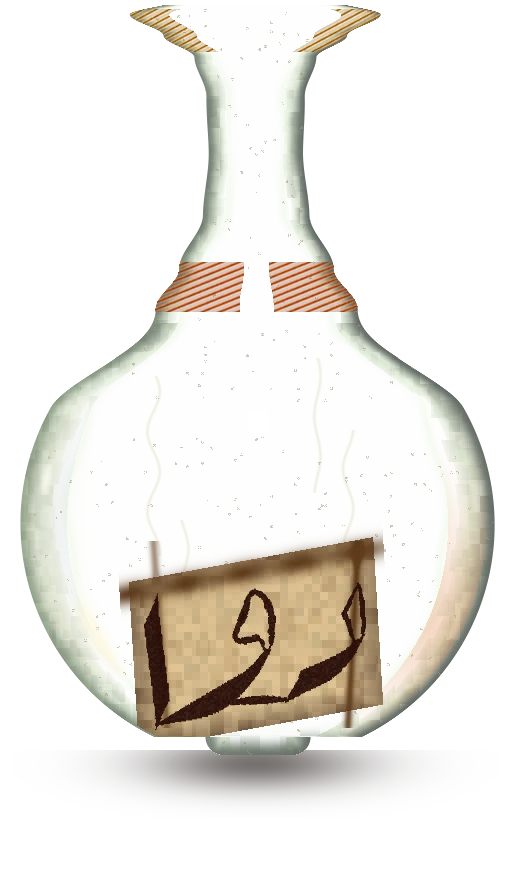
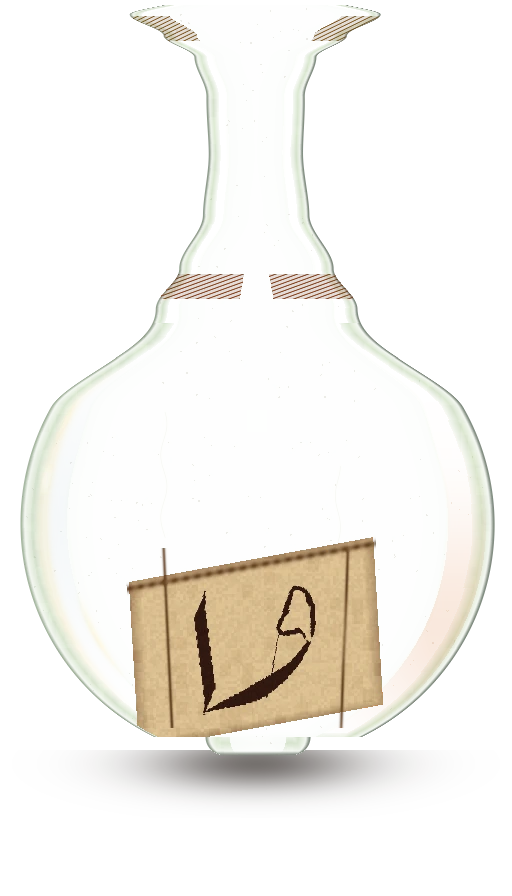
Thin the flask rim, cork, twine, wax, and label strokes.
The silhouette stays. The dark edge, grain, wraps, wax pool, and دوا pen are finer, and the crescent stays a thin line.

Changed region(s): [[0.0312, 0.0, 0.9688, 0.8438]]

diff --git a/Source.V2/tools/bake_flask.py b/Source.V2/tools/bake_flask.py
@@ -266,7 +266,9 @@ def _thin_calligraphy(src):
         punched[yy[core], xx[core]] = False
     D2 = _dist_bg(punched)
     R2 = _maxfilt(D2.astype(np.float32), 8)
-    cut = 0.35 * R2
+    # A step finer than the round-10 pen. The centerline stays, so the word
+    # does not break into separate heads and tails.
+    cut = 0.46 * R2
     thin = punched & ((D2 >= cut) | (D2 + 1.0 >= R2))
     parts = _ink_components(thin, 40)
     if len(parts) < 3:
@@ -301,7 +303,7 @@ def _thin_calligraphy(src):
     span = max(x1 - x0, 1)
     for x in range(x0 - 3, x1 + 4):
         t = float(np.clip((x - x0) / float(span), 0.0, 1.0))
-        thick = 2.4 + 3.2 * np.sin(t * np.pi)
+        thick = 1.35 + 1.7 * np.sin(t * np.pi)
         yy = (1.0 - t) * y0 + t * y1 - 1.6 * np.sin(t * np.pi)
         for k in range(int(-thick) - 1, int(thick) + 2):
             ny = int(yy + k)
@@ -375,18 +377,18 @@ def paint(corked: bool) -> np.ndarray:
     cover = np.clip(dist + 1.05, 0.0, 1.0) * sil.astype(np.float32)
     hole = (nx < inner_img) & (inner_img > 0.012) & (cover > 0.45)
 
-    # Thick wall. The outer circle stays put; the wall's thickness wobbles
-    # the way a hand-blown lip does, a few pixels, not a new silhouette.
-    thick_var = 0.78 + 0.36 * hash2(ys // 16, xs // 20)
-    side_wave = 1.0 + 0.10 * np.sin(v * 36.0 + u * 5.0)
-    rim_w = np.where(v < 0.36, 15.0, 24.0) * thick_var * side_wave
+    # The outer circle stays put. The dark stroke is a fine line; the pale
+    # wall behind it is what still reads as glass thickness.
+    thick_var = 0.92 + 0.10 * hash2(ys // 24, xs // 28)
+    side_wave = 1.0 + 0.035 * np.sin(v * 36.0 + u * 5.0)
+    rim_w = np.where(v < 0.36, 3.2, 4.4) * thick_var * side_wave
     rim = np.clip(1.0 - dist / rim_w, 0.0, 1.0)
     rim = rim * rim * (3.0 - 2.0 * rim)
-    band_c = np.where(v < 0.36, 20.0, 36.0) * (0.85 + 0.30 * hash2(ys // 22, (xs + 19) // 18))
+    band_c = np.where(v < 0.36, 12.0, 22.0) * (0.94 + 0.08 * hash2(ys // 28, (xs + 19) // 24))
     band = np.clip(1.0 - np.abs(dist - band_c * 0.55) / (band_c * 0.55), 0.0, 1.0)
-    band *= (dist > 3.0) & (dist < band_c)
-    inner_wobble = inner_img + (3.2 * np.sin(v * 48.0) + 1.8 * np.sin(v * 17.0 + 0.8)) / W
-    inner_band = np.clip(1.0 - np.abs(nx - inner_wobble) * W / 7.0, 0.0, 1.0)
+    band *= (dist > 2.0) & (dist < band_c)
+    inner_wobble = inner_img + (1.4 * np.sin(v * 48.0) + 0.8 * np.sin(v * 17.0 + 0.8)) / W
+    inner_band = np.clip(1.0 - np.abs(nx - inner_wobble) * W / 2.6, 0.0, 1.0)
     inner_band *= (dist > 8.0) & (cover > 0.35) & (inner_img > 0.02)
 
     blot = hash2(xs // 7, ys // 9)
@@ -402,15 +404,15 @@ def paint(corked: bool) -> np.ndarray:
     body_a = np.where(hole, 0.026 + 0.040 * fresnel * fresnel, 0.0) * cover
     body_rgb = np.array([0.80, 0.88, 0.80], np.float32)
     light_side = np.clip((0.62 - u) / 0.55, 0.0, 1.0)
-    rim_dark = np.array([0.10, 0.16, 0.11], np.float32)
-    rim_lit = np.array([0.40, 0.52, 0.36], np.float32)
+    rim_dark = np.array([0.16, 0.24, 0.16], np.float32)
+    rim_lit = np.array([0.42, 0.54, 0.38], np.float32)
     rim_rgb = rim_dark * (1.0 - light_side[..., None]) + rim_lit * light_side[..., None]
-    rim_rgb = np.clip(rim_rgb * (0.86 + 0.18 * grain[..., None]), 0.0, 1.0)
-    rim_a = rim * 0.66 * cover
-    thick_rgb = np.clip(np.array([0.74, 0.84, 0.66], np.float32) * (0.88 + 0.16 * grain[..., None]), 0.0, 1.0)
-    thick_a = band * np.where(hole, 0.05, 0.48) * cover
+    rim_rgb = np.clip(rim_rgb * (0.96 + 0.06 * grain[..., None]), 0.0, 1.0)
+    rim_a = rim * 0.58 * cover
+    thick_rgb = np.clip(np.array([0.74, 0.84, 0.66], np.float32) * (0.96 + 0.06 * grain[..., None]), 0.0, 1.0)
+    thick_a = band * np.where(hole, 0.04, 0.50) * cover
     line_rgb = np.array([0.90, 0.96, 0.84], np.float32)
-    line_a = inner_band * 0.28 * cover
+    line_a = inner_band * 0.08 * cover
 
     rgb, alpha = over(rgb, alpha, body_rgb, body_a)
     rgb, alpha = over(rgb, alpha, thick_rgb, thick_a)
@@ -423,74 +425,79 @@ def paint(corked: bool) -> np.ndarray:
     right = cx + hw_img
     along = np.clip((v - 0.40) / 0.40, 0.0, 1.0)
     on_bulb = (v > 0.40) & (v < 0.80) & (cover > 0.25)
-    # Broken by the same blot scale as the rim, so the crescent is not a vector arc.
-    break_up = 0.70 + 0.30 * blot
+    # A thin crescent. A little blot keeps it from reading as a vector arc.
+    break_up = 0.92 + 0.08 * blot
     c1 = left + 0.042
-    d1 = (u - c1) / 0.028
+    d1 = (u - c1) / 0.012
     spec = np.exp(-(d1 * d1)) * np.sin(np.clip(along, 0.0, 1.0) * np.pi) * break_up
     c2 = left + 0.105
-    d2 = (u - c2) / 0.016
+    d2 = (u - c2) / 0.007
     along2 = np.clip((v - 0.48) / 0.24, 0.0, 1.0)
-    spec2 = np.exp(-(d2 * d2)) * np.sin(along2 * np.pi) * 0.40 * (0.75 + 0.25 * blot2)
-    c3 = right - 0.022
-    d3 = (u - c3) / 0.014
-    rim_l = np.exp(-(d3 * d3)) * np.sin(np.clip(along, 0.0, 1.0) * np.pi) * 0.55
-    spec_a = np.clip((spec * 0.55 + spec2 * 0.14 + rim_l * 0.22) * cover * on_bulb, 0.0, 0.34)
+    spec2 = np.exp(-(d2 * d2)) * np.sin(along2 * np.pi) * 0.22 * (0.88 + 0.12 * blot2)
+    c3 = right - 0.016
+    d3 = (u - c3) / 0.006
+    rim_l = np.exp(-(d3 * d3)) * np.sin(np.clip(along, 0.0, 1.0) * np.pi) * 0.32
+    spec_a = np.clip((spec * 0.78 + spec2 * 0.08 + rim_l * 0.14) * cover * on_bulb, 0.0, 0.50)
     # Furnace-warm, not a white stripe. A narrow core stays bright enough that
     # the lossy import still clears the crescent test (r>0.92, g>0.90).
     rgb, alpha = over(rgb, alpha, np.array([1.0, 0.95, 0.82], np.float32), spec_a)
+    # The top of the crescent is a thin stroke. A short bright tick there keeps
+    # the bend after the lossy import, without fattening the arc.
+    shoulder = np.clip((v - 0.445) / 0.025, 0.0, 1.0) * np.clip((0.495 - v) / 0.025, 0.0, 1.0)
+    d_sh = (u - c1) / 0.006
+    sh = np.exp(-(d_sh * d_sh)) * shoulder * cover * on_bulb
+    rgb, alpha = over(rgb, alpha, np.array([1.0, 0.96, 0.84], np.float32), np.clip(sh * 0.78, 0.0, 0.78))
     core_along = np.clip((v - 0.515) / 0.040, 0.0, 1.0)
-    core = np.exp(-((u - c1) / 0.008) ** 2) * np.sin(core_along * np.pi)
+    core = np.exp(-((u - c1) / 0.0085) ** 2) * np.sin(core_along * np.pi)
     # Keep this glint off the rows the crescent-bend test samples (0.46 and 0.57).
     core = core * ((v > 0.518) & (v < 0.552)) * cover * on_bulb
     rgb, alpha = over(rgb, alpha, np.array([1.0, 0.98, 0.90], np.float32), np.clip(core * 0.96, 0.0, 0.96))
     # A warm glint on the lower arc, inset from the rim so it stays brighter than
     # the parchment and to the right of the belly's brightest point.
     low_boost = np.clip((v - 0.66) / 0.04, 0.0, 1.0) * np.clip((0.76 - v) / 0.04, 0.0, 1.0)
-    d_low = (u - (c1 + 0.048)) / 0.016
+    d_low = (u - (c1 + 0.048)) / 0.008
     low_arc = np.exp(-(d_low * d_low)) * low_boost * cover * on_bulb
-    rgb, alpha = over(rgb, alpha, np.array([1.0, 0.97, 0.86], np.float32), np.clip(low_arc * 0.94, 0.0, 0.94))
+    rgb, alpha = over(rgb, alpha, np.array([1.0, 0.97, 0.86], np.float32), np.clip(low_arc * 0.62, 0.0, 0.62))
 
     # Warm bounce on the right wall, cool bounce on the left. Neither enters the hole.
     bounce = np.clip((u - 0.62) / 0.22, 0.0, 1.0) * np.exp(-((v - 0.70) / 0.12) ** 2)
-    bounce = bounce * np.where(hole, 0.0, 0.26) * (dist > 8.0) * cover
+    bounce = bounce * np.where(hole, 0.0, 0.16) * (dist > 8.0) * cover
     rgb, alpha = over(rgb, alpha, np.array([0.86, 0.44, 0.16], np.float32), bounce)
     cool = np.clip((0.40 - u) / 0.18, 0.0, 1.0) * np.exp(-((v - 0.58) / 0.14) ** 2)
-    cool = cool * np.where(hole, 0.0, 0.16) * (dist > 10.0) * cover
+    cool = cool * np.where(hole, 0.0, 0.10) * (dist > 10.0) * cover
     rgb, alpha = over(rgb, alpha, np.array([0.62, 0.74, 0.78], np.float32), cool)
 
-    # Hairline scratches, dust, and a few seed bubbles in the wall.
+    # A few hairline scratches and tiny seed bubbles. Quiet enough to miss
+    # at 1×, visible as glass at 3×.
     scratch = np.zeros((H, W), np.float32)
     for u0, v0, v1, amp, phase in (
-        (0.30, 0.42, 0.62, 0.012, 0.4),
-        (0.68, 0.48, 0.70, 0.010, 1.7),
-        (0.36, 0.58, 0.74, -0.008, 2.4),
-        (0.62, 0.40, 0.55, 0.006, 0.2),
+        (0.32, 0.46, 0.60, 0.006, 0.4),
+        (0.66, 0.52, 0.68, 0.005, 1.7),
     ):
         span = (v > v0) & (v < v1) & (cover > 0.3)
-        curve = u0 + amp * np.sin((v - v0) * 70.0 + phase)
-        scratch = scratch + np.exp(-(((u - curve) * W) / 1.6) ** 2) * span
+        curve = u0 + amp * np.sin((v - v0) * 90.0 + phase)
+        scratch = scratch + np.exp(-(((u - curve) * W) / 0.55) ** 2) * span
     scratch = np.clip(scratch, 0.0, 1.0)
-    rgb, alpha = over(rgb, alpha, np.array([0.82, 0.78, 0.64], np.float32), scratch * 0.28)
-    dust = (hash2(xs // 3, ys // 3) > 0.985) & (hash2(xs, ys) > 0.55) & (cover > 0.2)
+    rgb, alpha = over(rgb, alpha, np.array([0.82, 0.78, 0.64], np.float32), scratch * 0.10)
+    dust = (hash2(xs // 2, ys // 2) > 0.994) & (hash2(xs, ys) > 0.70) & (cover > 0.2)
     dust = dust & (np.abs(v - 0.470) > 0.018)
-    rgb, alpha = over(rgb, alpha, np.array([0.55, 0.46, 0.32], np.float32), dust.astype(np.float32) * 0.40)
-    for bu, bv, br in ((0.32, 0.50, 7.0), (0.70, 0.61, 5.2), (0.35, 0.69, 3.6), (0.66, 0.45, 3.0)):
+    rgb, alpha = over(rgb, alpha, np.array([0.55, 0.46, 0.32], np.float32), dust.astype(np.float32) * 0.14)
+    for bu, bv, br in ((0.34, 0.52, 2.4), (0.68, 0.60, 1.8), (0.38, 0.68, 1.5)):
         dpx = np.hypot((u - bu) * W, (v - bv) * H)
-        on_wall = (dist > 7.0) & (dist < 40.0) & (cover > 0.3)
-        ring = np.exp(-((dpx - br) / 1.3) ** 2) * on_wall
-        core = np.exp(-(dpx / (br * 0.5)) ** 2) * on_wall
-        rgb, alpha = over(rgb, alpha, np.array([0.25, 0.32, 0.24], np.float32), ring * 0.45)
-        rgb, alpha = over(rgb, alpha, np.array([0.90, 0.94, 0.82], np.float32), core * 0.30)
+        on_wall = (dist > 6.0) & (dist < 36.0) & (cover > 0.3)
+        ring = np.exp(-((dpx - br) / 0.55) ** 2) * on_wall
+        bub = np.exp(-(dpx / (br * 0.45)) ** 2) * on_wall
+        rgb, alpha = over(rgb, alpha, np.array([0.25, 0.32, 0.24], np.float32), ring * 0.16)
+        rgb, alpha = over(rgb, alpha, np.array([0.90, 0.94, 0.82], np.float32), bub * 0.12)
     # Keep bare glass under the warm-pixel test. Brass, cork and the label come next.
     alpha = np.minimum(alpha, 0.68)
 
     # Wound brass wire on the lip, wound copper wire on the collar. Grooves
     # stay translucent so the bands are not flat orange stickers.
-    lip = (v > 0.010) & (v < 0.058) & (nx < hw_img) & (nx > inner_img * 0.82) & (cover > 0.25)
-    _wire(rgb, alpha, u, v, lip, np.array([0.46, 0.28, 0.10]), np.array([0.93, 0.74, 0.32]), 0.48, over)
-    collar = (v > 0.292) & (v < 0.348) & (nx < hw_img * 1.01) & (nx > inner_img * 0.22) & (cover > 0.2)
-    _wire(rgb, alpha, u, v, collar, np.array([0.50, 0.22, 0.09]), np.array([0.78, 0.40, 0.16]), 0.36, over)
+    lip = (v > 0.018) & (v < 0.046) & (nx < hw_img) & (nx > inner_img * 0.82) & (cover > 0.25)
+    _wire(rgb, alpha, u, v, lip, np.array([0.46, 0.28, 0.10]), np.array([0.93, 0.74, 0.32]), 0.78, over)
+    collar = (v > 0.306) & (v < 0.334) & (nx < hw_img * 1.01) & (nx > inner_img * 0.22) & (cover > 0.2)
+    _wire(rgb, alpha, u, v, collar, np.array([0.50, 0.22, 0.09]), np.array([0.78, 0.40, 0.16]), 0.58, over)
 
     if corked:
         _cork(rgb, alpha, u, v, nx, hw_img, over)
@@ -523,58 +530,62 @@ def _cork(rgb, alpha, u, v, nx, hw_img, over_fn):
     span = np.clip((v - top) / (bot - top), 0.0, 1.0)
     cork_hw = 0.078 - 0.010 * span
     cork = (v > top) & (v < bot) & (nx < cork_hw) & (nx < hw_img - 0.008)
-    # Bold growth rings, wide enough to survive the downscale to 125 px.
+    # Fine grain: tight growth lines and small pores, not wide dark bands.
     x_px = u * W
-    rings = 0.62 + 0.16 * np.sin(x_px * 0.085) + 0.10 * np.sin(x_px * 0.031 + 0.7)
-    bands = 0.10 * (np.sin(v * H * 0.22) > 0.55).astype(np.float32)
-    pores = (hash2((u * W).astype(np.int32) // 4, (v * H).astype(np.int32) // 3) > 0.78).astype(np.float32) * 0.10
+    rings = 0.72 + 0.026 * np.sin(x_px * 0.62) + 0.016 * np.sin(x_px * 1.35 + 0.6) + 0.010 * np.sin(x_px * 2.2)
+    lines = (np.clip(np.cos(x_px * 0.55), 0.0, 1.0) ** 16) * 0.04
+    pores = (hash2((u * W).astype(np.int32), (v * H).astype(np.int32) // 2) > 0.93).astype(np.float32) * 0.05
     wood = np.stack([
-        np.clip(rings - bands - pores, 0.0, 1.0) * 0.78,
-        np.clip(rings - bands * 0.7 - pores, 0.0, 1.0) * 0.48,
-        np.clip(rings * 0.55, 0.0, 1.0) * 0.28,
+        np.clip(rings - lines - pores, 0.0, 1.0) * 0.76,
+        np.clip(rings - lines * 0.65 - pores, 0.0, 1.0) * 0.46,
+        np.clip(rings * 0.52, 0.0, 1.0) * 0.26,
     ], axis=-1)
-    shade = 0.78 + 0.32 * np.exp(-((u - 0.44) / 0.07) ** 2)
+    shade = 0.86 + 0.18 * np.exp(-((u - 0.44) / 0.07) ** 2)
     wood = np.clip(wood * shade[..., None], 0.0, 1.0)
     rgb[:], alpha[:] = over_fn(rgb, alpha, wood, cork.astype(np.float32))
 
     inside = (nx < hw_img - 0.006) & (v > top - 0.01) & (v < bot + 0.02)
-    for c, sigma in ((0.078, 0.016), (0.148, 0.018)):
-        band = np.exp(-((v - c) / sigma) ** 2) * (nx < cork_hw + 0.016) * inside
-        twist = 0.55 + 0.45 * (0.5 + 0.5 * np.sin(u * W * 0.09 + v * 30.0))
-        twine = np.array([0.34, 0.20, 0.09]) * (0.65 + 0.55 * twist[..., None])
-        rgb[:], alpha[:] = over_fn(rgb, alpha, np.clip(twine, 0.0, 1.0), np.clip(band, 0.0, 1.0) * 0.98)
+    for c, sigma in ((0.078, 0.0033), (0.148, 0.0036)):
+        band = np.exp(-((v - c) / sigma) ** 2) * (nx < cork_hw + 0.010) * inside
+        phase = u * W * 0.32 + (v - c) * H * 0.6
+        strand = np.clip((0.5 + 0.5 * np.sin(phase) - 0.28) / 0.72, 0.0, 1.0)
+        ply = 0.5 + 0.5 * np.sin(phase * 2.0 + 0.7)
+        fibre = hash2((u * W).astype(np.int32), (v * H).astype(np.int32) // 2)
+        twine = np.array([0.32, 0.18, 0.08]) * (0.70 + 0.40 * strand[..., None]) * (0.90 + 0.12 * fibre[..., None])
+        a = np.clip(band, 0.0, 1.0) * (0.35 + 0.62 * ply)
+        rgb[:], alpha[:] = over_fn(rgb, alpha, np.clip(twine, 0.0, 1.0), a)
 
-    # Melted wax pooled on the lower twine: lumpy edge, one drip, a gloss, a darker rim.
+    # A small wax pool on the lower twine, with a thin drip and a fine rim.
     # The body stays inside the wax colour test (r>0.48, g<0.34, b<0.24).
     du = (u - 0.50) * W
-    dv = (v - 0.154) * H
+    dv = (v - 0.152) * H
     ang = np.arctan2(dv, du)
-    nedge = hash2((u * W).astype(np.int32) // 4, (v * H).astype(np.int32) // 4)
-    rad = 1.0 + 0.20 * np.sin(ang * 3.0) + 0.12 * np.sin(ang * 5.0 + 1.4) + (nedge - 0.5) * 0.28
-    ell = np.sqrt((du / 26.0) ** 2 + (dv / 13.0) ** 2)
-    pool = np.clip((rad - ell) * 4.5, 0.0, 1.0)
-    drip = np.exp(-((u - 0.538) * W / 6.5) ** 2) * np.exp(-((v - 0.186) * H / 16.0) ** 2)
-    drip *= (v > 0.160) & (v < 0.230)
-    wax_m = np.clip(pool + drip * 0.92, 0.0, 1.0) * inside * (nx < hw_img - 0.014)
-    edge = np.clip((ell - (rad - 0.22)) / 0.22, 0.0, 1.0) * (pool > 0.05)
-    body_c = np.array([0.56, 0.19, 0.13], np.float32)
+    nedge = hash2((u * W).astype(np.int32) // 3, (v * H).astype(np.int32) // 3)
+    rad = 1.0 + 0.07 * np.sin(ang * 4.0) + 0.04 * np.sin(ang * 7.0 + 1.4) + (nedge - 0.5) * 0.08
+    ell = np.sqrt((du / 13.0) ** 2 + (dv / 6.0) ** 2)
+    pool = np.clip((rad - ell) * 7.0, 0.0, 1.0)
+    drip = np.exp(-((u - 0.528) * W / 2.6) ** 2) * np.exp(-((v - 0.172) * H / 9.0) ** 2)
+    drip *= (v > 0.158) & (v < 0.198)
+    wax_m = np.clip(pool + drip * 0.85, 0.0, 1.0) * inside * (nx < hw_img - 0.016)
+    edge = np.clip((ell - (rad - 0.14)) / 0.14, 0.0, 1.0) * (pool > 0.05)
+    body_c = np.array([0.55, 0.18, 0.12], np.float32)
     rim_c = np.array([0.40, 0.12, 0.08], np.float32)
     wax_col = body_c * (1.0 - edge[..., None]) + rim_c * edge[..., None]
-    gloss = np.exp(-((u - 0.475) / 0.018) ** 2) * np.exp(-((v - 0.146) / 0.008) ** 2) * (pool > 0.45)
-    wax_col = np.clip(wax_col + gloss[..., None] * np.array([0.16, 0.08, 0.04]), 0.0, 1.0)
-    rgb[:], alpha[:] = over_fn(rgb, alpha, wax_col, wax_m * 0.98)
+    gloss = np.exp(-((u - 0.482) / 0.008) ** 2) * np.exp(-((v - 0.146) / 0.0035) ** 2) * (pool > 0.55)
+    wax_col = np.clip(wax_col + gloss[..., None] * np.array([0.12, 0.05, 0.02]), 0.0, 1.0)
+    rgb[:], alpha[:] = over_fn(rgb, alpha, wax_col, wax_m * 0.96)
 
 
 def _wire(rgb, alpha, u, v, mask, base, hi, freq, over_fn):
-    """Helical wire: dark groove, bright strand, a little fibre."""
-    phase = u * W * freq + v * H * 0.90
+    """Fine helical wire: a thin bright strand and an open groove."""
+    phase = u * W * freq + v * H * 1.6
     strand = 0.5 + 0.5 * np.sin(phase)
+    thin = np.clip((strand - 0.48) / 0.52, 0.0, 1.0) ** 1.35
     ply = 0.5 + 0.5 * np.sin(phase * 2.0 + 1.1)
-    fibre = hash2((u * W).astype(np.int32) // 2, (v * H).astype(np.int32) // 2)
-    col = base * (0.55 + 0.35 * strand[..., None]) + hi * (0.15 + 0.55 * ply[..., None])
-    col = np.clip(col * (0.88 + 0.16 * fibre[..., None]), 0.0, 1.0)
-    # Grooves open onto the glass. Strands stay warm and opaque.
-    a = mask.astype(np.float32) * (0.28 + 0.70 * np.clip((strand - 0.25) / 0.75, 0.0, 1.0))
+    fibre = hash2((u * W).astype(np.int32), (v * H).astype(np.int32))
+    col = base * (0.62 + 0.22 * thin[..., None]) + hi * (0.08 + 0.42 * ply[..., None] * thin[..., None])
+    col = np.clip(col * (0.94 + 0.08 * fibre[..., None]), 0.0, 1.0)
+    a = mask.astype(np.float32) * (0.16 + 0.78 * thin)
     rgb[:], alpha[:] = over_fn(rgb, alpha, col, a)
 
 
@@ -589,30 +600,31 @@ def _label(rgb, alpha, u, v, hw_img, over_fn):
     hw, hh = 0.240, 0.094
     edge = np.maximum(np.abs(ru) / hw, np.abs(rv) / hh)
     paper = (edge < 1.0) & (nx_inside(u, v, hw_img))
-    n = hash2((u * W).astype(np.int32) // 8, (v * H).astype(np.int32) // 8)
-    stain = hash2((u * W).astype(np.int32) // 14, (v * H).astype(np.int32) // 16)
-    paper_rgb = np.array([0.86, 0.75, 0.56]) * (0.90 + 0.12 * n)[..., None]
-    paper_rgb = np.where((stain > 0.72)[..., None], paper_rgb * 0.86 + np.array([0.45, 0.28, 0.12]) * 0.16, paper_rgb)
-    fringe = np.clip((edge - 0.72) / 0.28, 0.0, 1.0)
-    scorch = fringe * (0.55 + 0.45 * stain)
-    paper_rgb = np.clip(paper_rgb * (1.0 - 0.55 * scorch[..., None]) + np.array([0.22, 0.09, 0.04]) * (0.35 * scorch[..., None]), 0.0, 1.0)
+    n = hash2((u * W).astype(np.int32) // 3, (v * H).astype(np.int32) // 3)
+    stain = hash2((u * W).astype(np.int32) // 11, (v * H).astype(np.int32) // 13)
+    paper_rgb = np.array([0.86, 0.75, 0.56]) * (0.95 + 0.07 * n)[..., None]
+    paper_rgb = np.where((stain > 0.82)[..., None], paper_rgb * 0.92 + np.array([0.45, 0.28, 0.12]) * 0.10, paper_rgb)
+    # A narrow scorched hem, not a wide charred frame.
+    fringe = np.clip((edge - 0.90) / 0.10, 0.0, 1.0)
+    scorch = fringe * (0.70 + 0.30 * stain)
+    paper_rgb = np.clip(paper_rgb * (1.0 - 0.38 * scorch[..., None]) + np.array([0.28, 0.12, 0.05]) * (0.42 * scorch[..., None]), 0.0, 1.0)
     rgb[:], alpha[:] = over_fn(rgb, alpha, paper_rgb, paper.astype(np.float32) * 0.98)
 
-    fibre = 0.78 + 0.22 * np.sin(u * W * 0.11)
-    string = np.exp(-((rv + hh * 0.86) / 0.012) ** 2) * (np.abs(ru) < hw * 1.08)
+    fibre = 0.62 + 0.38 * (0.5 + 0.5 * np.sin(ru * W * 0.55))
+    string = np.exp(-((rv + hh * 0.92) / 0.0036) ** 2) * (np.abs(ru) < hw * 1.02)
     # Side strings start just above this lower card, so they do not cross the liquor.
-    tie = cv - hh - 0.02
-    string = string + np.exp(-((u - (0.30 + (v - tie) * 0.12)) / 0.008) ** 2) * (v > tie) * (v < cv + hh)
-    string = string + np.exp(-((u - (0.70 - (v - tie) * 0.10)) / 0.008) ** 2) * (v > tie) * (v < cv + hh)
+    tie = cv - hh - 0.012
+    string = string + np.exp(-((u - (0.32 + (v - tie) * 0.08)) / 0.0032) ** 2) * (v > tie) * (v < cv + hh)
+    string = string + np.exp(-((u - (0.68 - (v - tie) * 0.07)) / 0.0032) ** 2) * (v > tie) * (v < cv + hh)
     string = np.clip(string, 0.0, 1.0) * fibre * (nx_inside(u, v, hw_img))
-    rgb[:], alpha[:] = over_fn(rgb, alpha, np.array([0.36, 0.22, 0.10], np.float32), string * 0.96)
+    rgb[:], alpha[:] = over_fn(rgb, alpha, np.array([0.34, 0.20, 0.09], np.float32), string * 0.88)
 
     mark = _MARK
     mh, mw = mark.shape
     aspect = float(mw) / float(max(mh, 1))
     # Fit the word inside the card without stretching it.
-    box_w = hw * 2.0 * W * 0.90
-    box_h = hh * 2.0 * H * 0.86
+    box_w = hw * 2.0 * W * 0.80
+    box_h = hh * 2.0 * H * 0.74
     if box_w / max(box_h, 1.0) > aspect:
         tw = max(int(box_h * aspect), 8)
         th = max(int(box_h), 8)
@@ -628,10 +640,10 @@ def _label(rgb, alpha, u, v, hw_img, over_fn):
     ix = np.clip(((mu + 1.0) * 0.5 * (tw - 1)).astype(np.int32), 0, tw - 1)
     iy = np.clip(((mv + 1.0) * 0.5 * (th - 1)).astype(np.int32), 0, th - 1)
     ink = stamp[iy, ix]
-    # A hair of tooth so the stroke is not a flat fill, without opening the join.
-    tooth = 0.90 + 0.10 * hash2((u * W).astype(np.int32) // 2, (v * H).astype(np.int32) // 2)
-    ink_a = np.clip(ink * tooth, 0.0, 1.0) * on_word.astype(np.float32)
-    rgb[:], alpha[:] = over_fn(rgb, alpha, np.array([0.15, 0.05, 0.03], np.float32), ink_a * 0.98)
+    # Drop the soft resize halo so the stroke stays a pen line.
+    tooth = 0.94 + 0.06 * hash2((u * W).astype(np.int32), (v * H).astype(np.int32))
+    ink_a = np.clip((ink - 0.28) / 0.72, 0.0, 1.0) * tooth * on_word.astype(np.float32)
+    rgb[:], alpha[:] = over_fn(rgb, alpha, np.array([0.14, 0.05, 0.03], np.float32), ink_a * 0.96)
 
 
 def nx_inside(u, v, hw_img):
